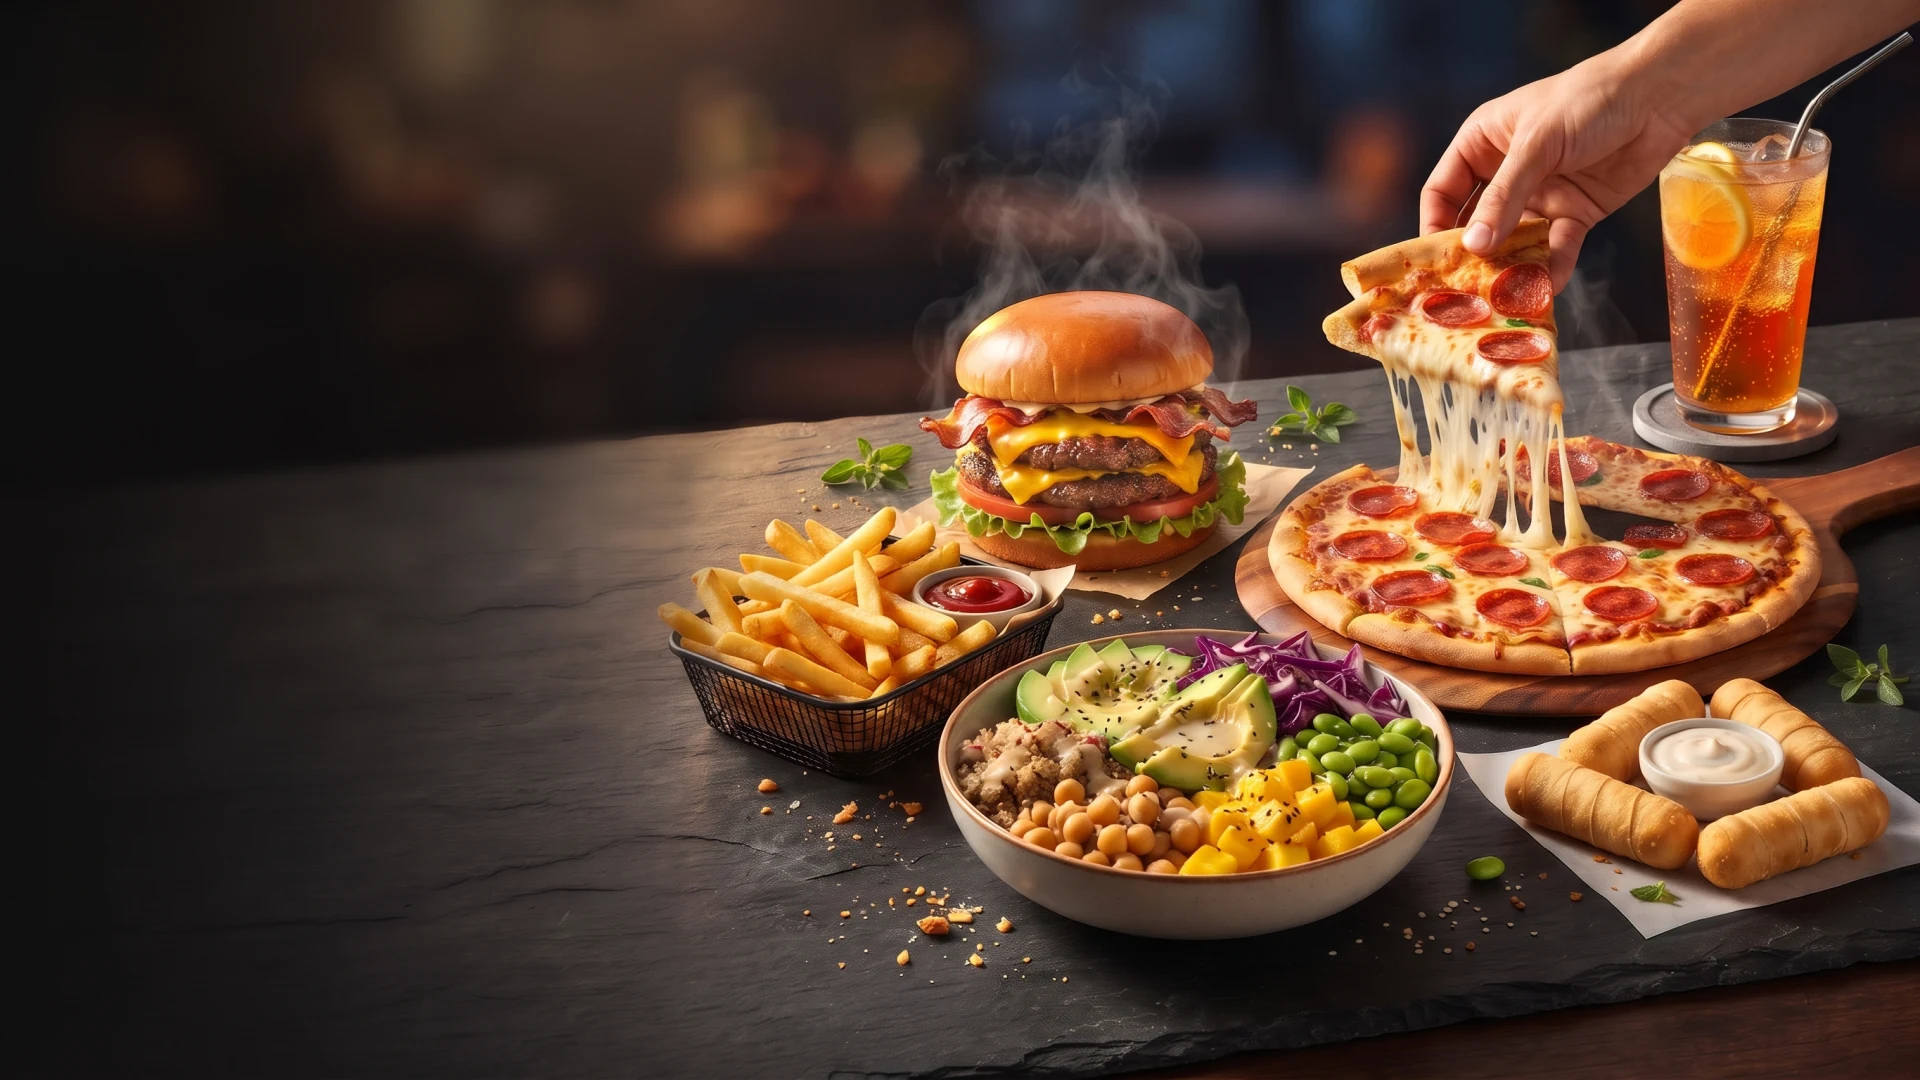
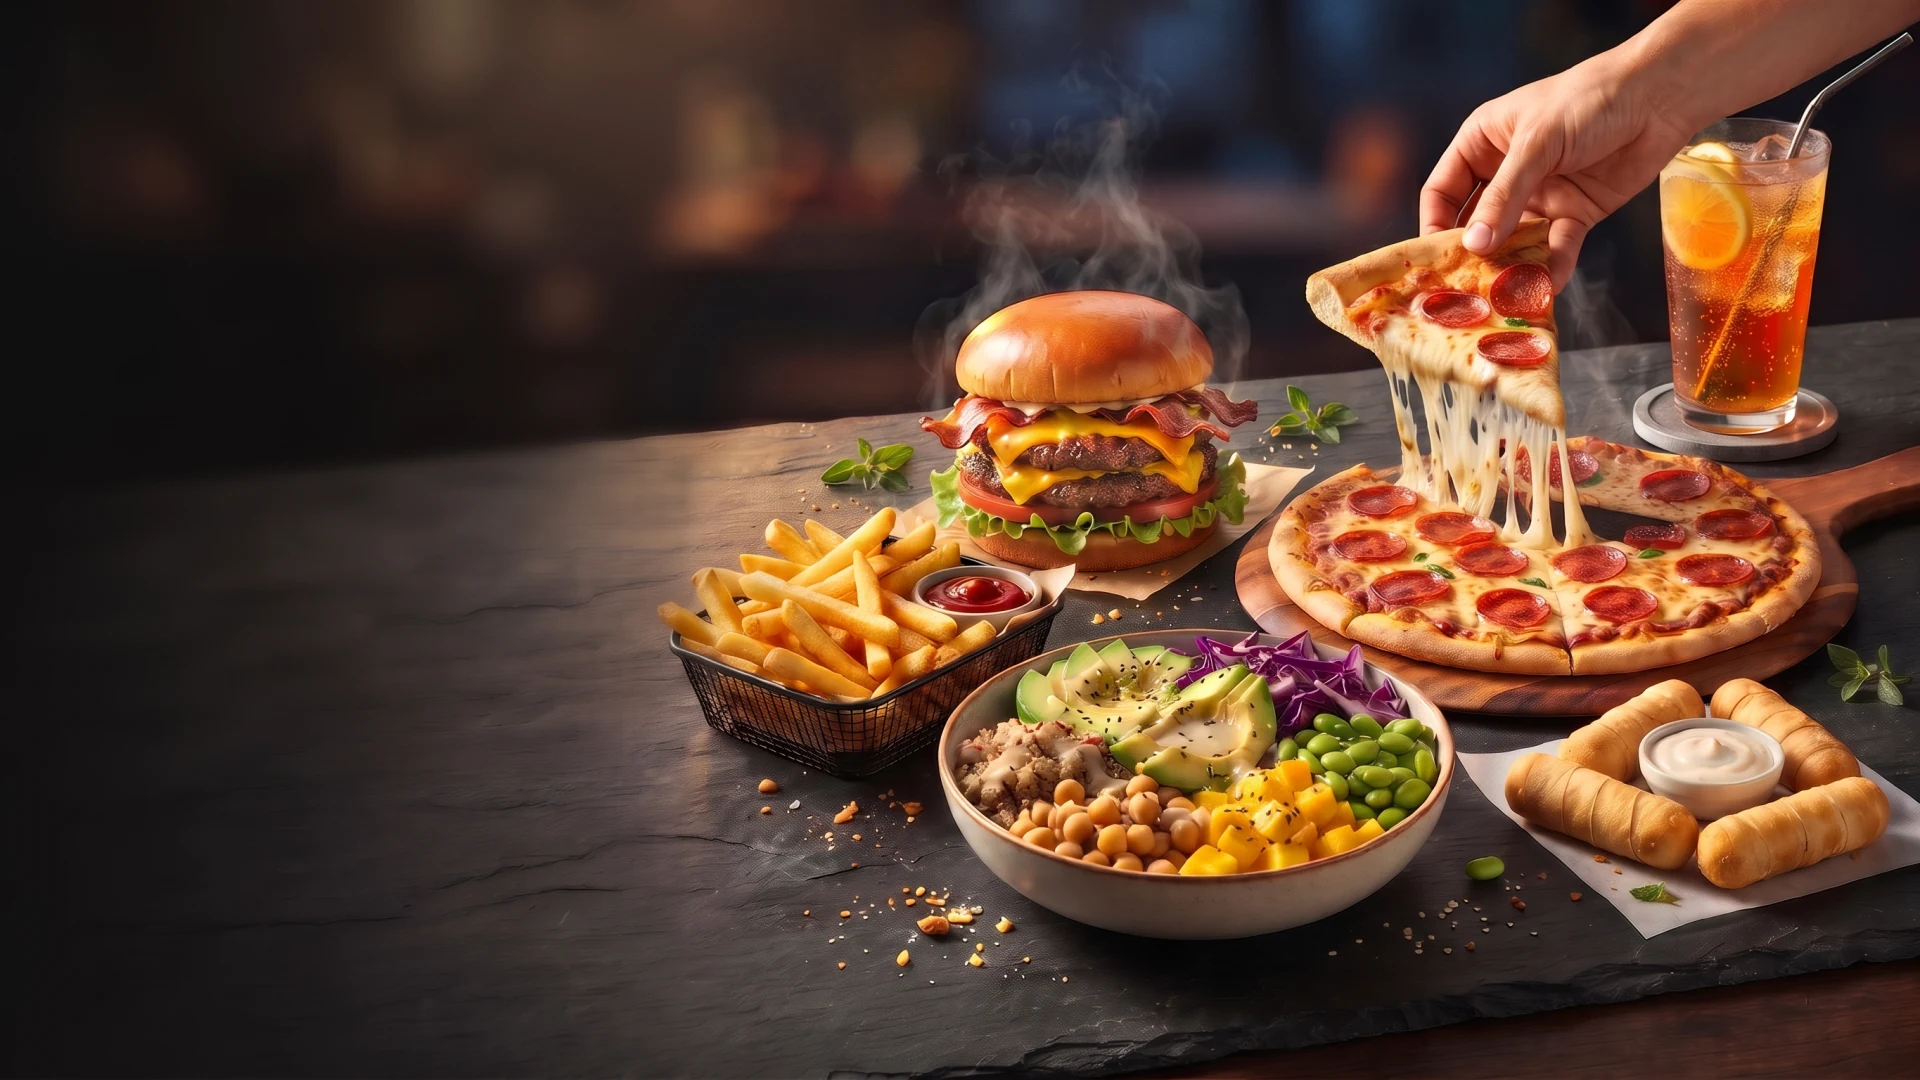
Web › /comida: la porción de pizza que sostiene la mano tenía DOS bordes (arriba y a la izquierda); ahora es una porción normal, con el borde solo donde la agarran los dedos y la punta hacia la pizza (corregida en Gemini subiendo la foto; lo demás igual). Las fotos de /comida pasan a ?v=3 para que n

diff --git a/comida/index.html b/comida/index.html
@@ -85,7 +85,7 @@
   html:not(.pc) .fondo{display:none}
   html:not(.pc) .cab{margin-bottom:28px}
   html:not(.pc) .heroe{margin:auto 0}
-  html.pc .f1{background-image:url(/assets/fotos/comida-1-h.webp?v=2)}
+  html.pc .f1{background-image:url(/assets/fotos/comida-1-h.webp?v=3)}
   .descarga{display:flex;flex-wrap:wrap;align-items:center;gap:20px}
   .descarga>div{flex:1;min-width:180px}
   .qr{display:block;flex:none;width:148px;height:148px;padding:8px;background:#fff;border-radius:14px}
@@ -93,7 +93,7 @@
 </style></head><body><div class="c">
 <script>
 // Precarga la primera foto solo en la computadora y solo si esta página es la que se ve (no la lista de tiendas de pedir.js).
-(function(d){var h=d.documentElement;if(/(^| )pc( |$)/.test(h.className) && !/(^| )compu( |$)/.test(h.className)){var l=d.createElement('link');l.rel='preload';l.as='image';l.href='/assets/fotos/comida-1-h.webp?v=2';d.head.appendChild(l);}})(document);
+(function(d){var h=d.documentElement;if(/(^| )pc( |$)/.test(h.className) && !/(^| )compu( |$)/.test(h.className)){var l=d.createElement('link');l.rel='preload';l.as='image';l.href='/assets/fotos/comida-1-h.webp?v=3';d.head.appendChild(l);}})(document);
 </script>
 <!-- Fotos de fondo (solo computadora): /assets/fotos/<nombre>-h.webp, 1920×1080. Para sumar otra: añadir su nombre a data-fotos. -->
 <div class="fondo" data-fotos="comida-1,comida-2,comida-3" aria-hidden="true"><div class="f f1 ve"></div><div class="f"></div><div class="velo"></div></div>
@@ -164,7 +164,7 @@
   var fotos=(caja.getAttribute('data-fotos')||'').split(',');
   if(fotos.length<2 || matchMedia('(prefers-reduced-motion: reduce)').matches) return;
   var capas=caja.querySelectorAll('.f'), i=0, arriba=0;
-  function url(n){ return '/assets/fotos/'+n+('-h')+'.webp?v=2'; }
+  function url(n){ return '/assets/fotos/'+n+('-h')+'.webp?v=3'; }
   function turno(){
     if(!caja.offsetWidth){ setTimeout(turno,7000); return; }   // la página no se está viendo: no se baja nada
     var n=(i+1)%fotos.length, im=new Image();
